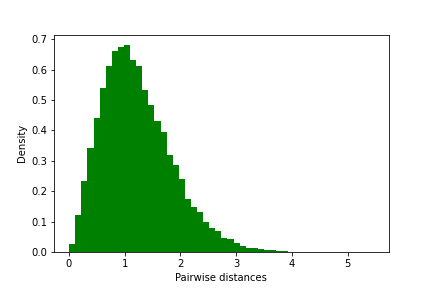
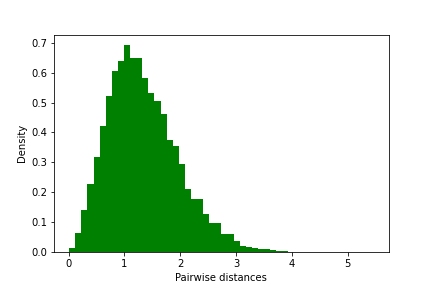
EDA improved

diff --git a/IV-PK-Params-in-Humans/code/eda.py b/IV-PK-Params-in-Humans/code/eda.py
@@ -1,77 +1,56 @@
-import pandas as pd
+import numpy as np
 import matplotlib.pyplot as plt
-from util import distance_Thompson_base10 , pd_col_onehotnan
+from scipy.stats import pearsonr
+from util_local import load_data
+from util_global import distance_Thompson_base10 , calc_for_all_pairs_A
 
-filename_data_in = "../Data-in/IV-PK-Params-in-Humans.csv"
+def plotloglog_lenses_pair( x , y , x_label , y_label , fig_titlebase , fig_filename ) :
+    ( r , r_pval ) = pearsonr( np.log10(x) , np.log10(y) )
+    fig_title = '{titlebase}; loglogR = {loglogR:.1f}'.format( titlebase = fig_titlebase , loglogR = r )
+    fig , ax = plt.subplots()
+    plt.loglog( x , y , 'r.' )
+    plt.xlabel( x_label )
+    plt.ylabel( y_label )
+    plt.title( fig_title )
+    plt.savefig( fig_filename )
+    plt.show()
+    plt.close()
 
-feature1 = \
-[ "Name" ,
-  "CAS #" ]
+filename_data_in = '../Data-in/IV-PK-Params-in-Humans.csv'
 
-feature2a = \
-[ "human VDss (L/kg)" ,
-  "human CL (mL/min/kg)" ]
+_ , data , feature = load_data(filename_data_in)
 
-feature2b = \
-[ "fraction unbound in plasma (fu)" ,
-  "MRT (h)" ,
-  "terminal  t1/2 (h)" ]
+tda_data = np.nan_to_num( data[feature['2']].to_numpy() , nan = 0.0 )
 
-feature3a = \
-[ "MW" ,
-  "HBA" ,
-  "HBD" ,
-  "TPSA_NO" ,
-  "RotBondCount" ,
-  "MoKa.LogP" ,
-  "MoKa.LogD7.4" ]
+tda_lens_choice1_descr = feature['2a']
+tda_lens_choice1 = data[tda_lens_choice1_descr].to_numpy()
 
-feature3b = "moka_ionState7.4"
+tda_lens_choice2_descr = feature['5']
+tda_lens_choice2 = data[tda_lens_choice2_descr].to_numpy()
 
-feature2 = feature2a + feature2b
-featureA = feature1 + feature2 + feature3a + [feature3b]
+tda_metric = lambda x1 , x2 : distance_Thompson_base10( x1 , x2 , 'Linf' )
+distce = calc_for_all_pairs_A( tda_data , tda_metric )
 
-dataA = pd.read_csv( filename_data_in , usecols = featureA + [feature3b] )
+x = tda_lens_choice1[:,0]
+y = tda_lens_choice1[:,1]
+x_label = tda_lens_choice1_descr[0]
+y_label = tda_lens_choice1_descr[1]
+fig_titlebase = 'Lenses pair choice 1'
+fig_filename = '../EDA/lenses_pair_1.png'
+plotloglog_lenses_pair( x , y , x_label , y_label , fig_titlebase , fig_filename )
 
-dataOneHot_moka_ionState74 = pd_col_onehotnan( dataA[feature3b] , feature3b , "_" )
-
-dataB = pd.concat( [ dataA[featureA] , dataOneHot_moka_ionState74 ] , axis = 1 )
-
-featureB = featureA + list( dataOneHot_moka_ionState74.columns )
-
-cell_has_missing2a = dataB[feature2a].isna()
-row_has_missing2a = cell_has_missing2a.any(axis=1)
-
-data = dataB[~row_has_missing2a]
-
-cell_has_missing2 = data[feature2].isna()
-row_has_missing2 = cell_has_missing2.any(axis=1)
-
-tda_data = data[feature2].to_numpy()
-
-fig , ax = plt.subplots()
-plt.loglog( tda_data[:,0] , tda_data[:,1] , 'r.' )
-plt.xlabel( feature2[0] )
-plt.ylabel( feature2[1] )
-plt.savefig( "../EDA/lenses_pair_1.png" )
-plt.show()
-plt.close()
-
-n = tda_data.shape[0]
-N = n * ( n - 1 ) // 2
-distce = [None] * N
-k = -1
-for i in range(n) :
-    for j in range(i+1,n) :
-        k = k + 1
-        distce[k] = distance_Thompson_base10( tda_data[i,:] ,
-                                              tda_data[j,:] ,
-                                              "Linf" )
+x = tda_lens_choice2[:,0]
+y = tda_lens_choice2[:,1]
+x_label = tda_lens_choice2_descr[0]
+y_label = tda_lens_choice2_descr[1]
+fig_titlebase = 'Lenses pair choice 2'
+fig_filename = '../EDA/lenses_pair_2.png'
+plotloglog_lenses_pair( x , y , x_label , y_label , fig_titlebase , fig_filename )
 
 fig , ax = plt.subplots()
 plt.hist( distce , bins = 50 , density = True , facecolor = 'g' )
-plt.xlabel( "Pairwise distances" )
-plt.ylabel( "Density" )
-plt.savefig( "../EDA/distances_distribution.png" )
+plt.xlabel( 'Pairwise distances' )
+plt.ylabel( 'Density' )
+plt.savefig( '../EDA/distances_distribution.png' )
 plt.show()
 plt.close()

diff --git a/IV-PK-Params-in-Humans/code/util_local.py b/IV-PK-Params-in-Humans/code/util_local.py
@@ -1,0 +1,53 @@
+import pandas as pd
+from util_global import pd_col_onehotnan
+
+
+def load_data(filename_data_in) :
+    
+    feature = dict()
+    
+    feature['1'] = \
+    [ 'Name' ,
+      'CAS #' ]
+    
+    feature['2a'] = \
+    [ 'human VDss (L/kg)' ,
+      'human CL (mL/min/kg)' ]
+    
+    feature['2b'] = 'fraction unbound in plasma (fu)'
+    
+    feature['2c'] = \
+    [ 'MRT (h)' ,
+      'terminal  t1/2 (h)' ]
+    
+    feature['3'] = \
+    [ 'MW' ,
+      'HBA' ,
+      'HBD' ,
+      'TPSA_NO' ,
+      'RotBondCount' ,
+      'MoKa.LogP' ,
+      'MoKa.LogD7.4' ]
+    
+    feature['4a'] = 'moka_ionState7.4'
+    
+    feature['2'] = feature['2a'] + [feature['2b']] + feature['2c']
+    
+    feature['A'] = feature['1'] + feature['2'] + feature['3'] + [feature['4a']]
+    
+    dataA = pd.read_csv( filename_data_in , usecols = feature['A'] )
+    cell_has_missing = dataA[ feature['2a'] + [feature['2b']] ].isna()
+    row_has_missing  = cell_has_missing.any(axis=1)
+    dataB1 = dataA[~row_has_missing]
+    dataB2 , feature['4b'] = pd_col_onehotnan( dataB1[feature['4a']] , feature['4a'] , '_' )
+    dataB = pd.concat( [ dataB1 , dataB2 ] , axis = 1 )
+    feature['5'] = []
+    for feat in feature['2a'] :
+        addl_feat = feat + ' / ' + feature['2b']
+        feature['5'].append(addl_feat)
+        dataB[addl_feat] = dataB[feat] / dataB[feature['2b']]
+    
+    feature['B'] = feature['A'] + feature['4b'] + feature['5']
+    
+    return dataA , dataB , feature
+
